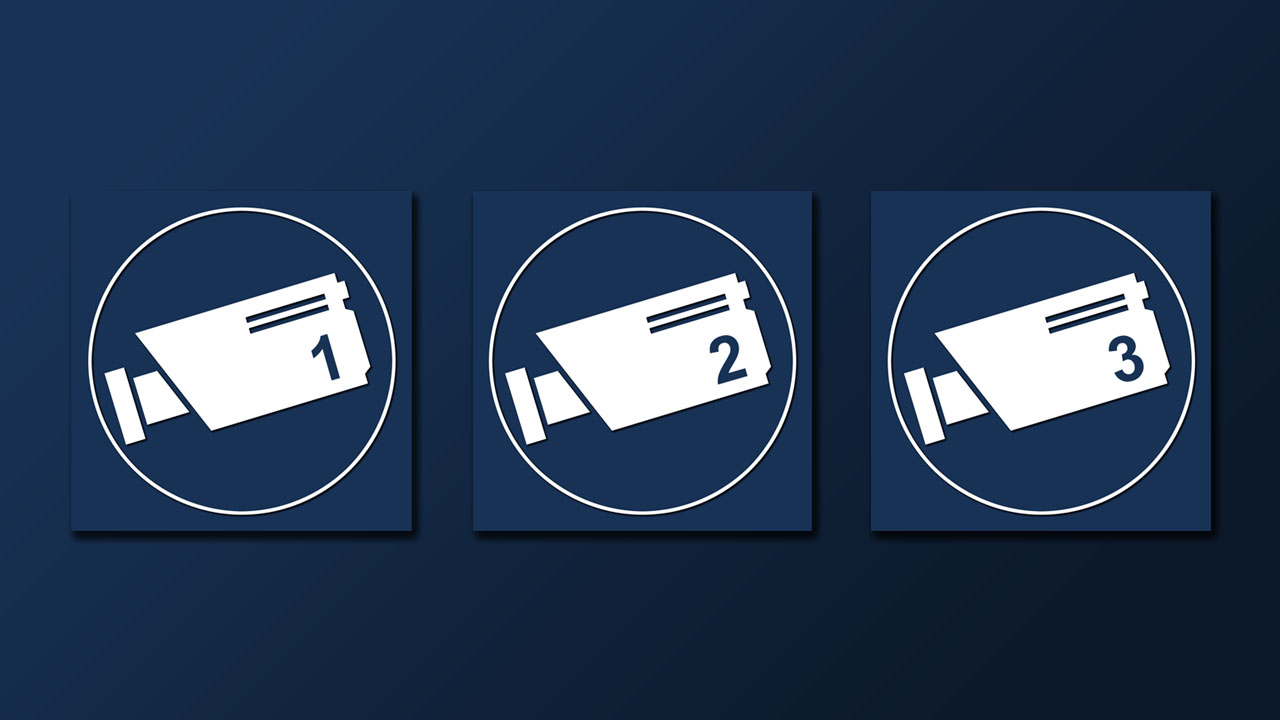
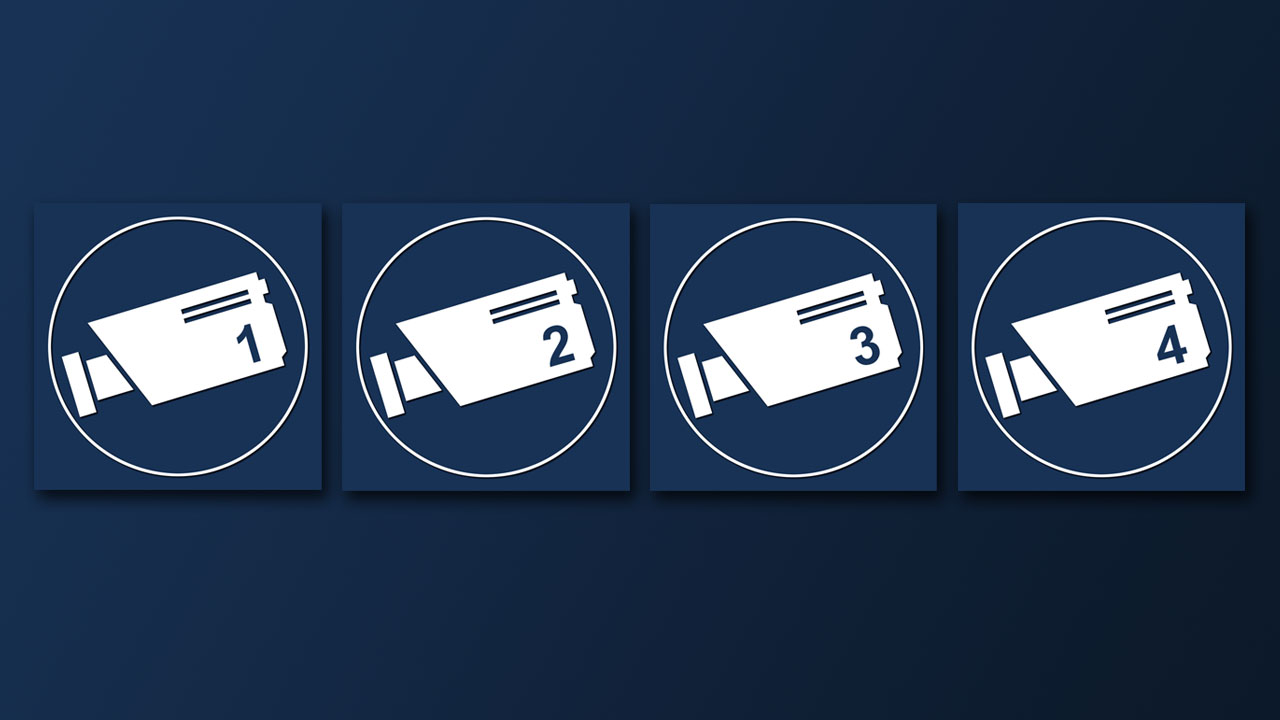
Initial Matrix built

Changed region(s): [[0.0312, 0.2444, 1.0, 0.7639], [0.7812, 0.3361, 0.8125, 0.3667]]

diff --git a/default.py b/default.py
@@ -1,31 +1,29 @@
 import sys
 import os
-import urllib
+from urllib.parse import parse_qsl, unquote_plus
 import xbmc
 import xbmcaddon
 import xbmcgui
 import xbmcplugin
+import xbmcvfs
 
 __addon__ = xbmcaddon.Addon()
 __addonID__ = __addon__.getAddonInfo('id')
 __addonname__ = __addon__.getAddonInfo('name')
 __path__ = __addon__.getAddonInfo('path')
+__iconpath__ = os.path.join(xbmcvfs.translatePath(__path__), 'resources', 'lib', 'media')
+__fanart__ = os.path.join(xbmcvfs.translatePath(__path__), 'fanart.jpg')
 
 __LS__ = __addon__.getLocalizedString
 
+
 def paramsToDict(parameters):
+    return dict(parse_qsl(parameters))
 
-    paramDict = {}
-    if parameters:
-        paramPairs = parameters.split("&")
-        for paramsPair in paramPairs:
-            paramSplits = paramsPair.split('=')
-            if (len(paramSplits)) == 2:
-                paramDict[paramSplits[0]] = paramSplits[1]
-    return paramDict
 
-def writeLog(message, level=xbmc.LOGNOTICE):
-    xbmc.log('[%s] %s' % (__addonID__, message.encode('utf-8', errors='ignore')), level)
+def writeLog(message, level=xbmc.LOGDEBUG):
+    xbmc.log('[%s] %s' % (__addonID__, message), level)
+
 
 arguments = sys.argv
 
@@ -36,25 +34,25 @@ if len(arguments) > 1:
         arguments[1] = arguments[1][1:]
 
     params = paramsToDict(arguments[1])
-    mode = urllib.unquote_plus(params.get('mode', ''))
 
-    item = [__LS__(30011) % ('1'), __LS__(30011) % ('2'), __LS__(30011) % ('3')]
-    cam  = [__addon__.getSetting('cam1'), __addon__.getSetting('cam2'), __addon__.getSetting('cam3')]
-    loc  = [__addon__.getSetting('loc1'), __addon__.getSetting('loc2'), __addon__.getSetting('loc3')]
+    item = [__LS__(30011) % '1', __LS__(30011) % '2', __LS__(30011) % '3', __LS__(30011) % '4']
+    cam = [__addon__.getSetting('cam1'), __addon__.getSetting('cam2'), __addon__.getSetting('cam3'),
+           __addon__.getSetting('cam4')]
+    loc = [__addon__.getSetting('loc1'), __addon__.getSetting('loc2'), __addon__.getSetting('loc3'),
+           __addon__.getSetting('loc4')]
 
 
-if mode is '':
-    _atleast = False
-    for i in range(int(__addon__.getSetting('numcams'))):
-        icon = xbmc.translatePath(os.path.join( __path__,'resources', 'lib', 'media', 'ipcam_%s.png' % (i + 1)))
-        _listitem = '%s - %s' %(item[i], loc[i]) if loc[i] != '' else item[i]
-        li = xbmcgui.ListItem(_listitem, iconImage =icon)
-        li.setProperty('isPlayable', 'true')
-        li.setInfo('video', {'tag': 'Documentary'})
+_atleast = False
+for i in range(int(__addon__.getSetting('numcams'))):
+    li = xbmcgui.ListItem(label=loc[i] if loc[i] != '' else item[i], label2=item[i])
+    icon = xbmc.translatePath(os.path.join( __iconpath__, 'ipcam_%s.png' % (i + 1)))
+    li.setArt({'icon': icon, 'fanart': __fanart__})
+    li.setProperty('isPlayable', 'true')
+    li.setInfo('video', {'tag': 'Documentary'})
 
-        if cam[i] != '':
-            xbmcplugin.addDirectoryItem(_addonHandle, cam[i], li)
-            _atleast = True
+    if cam[i] != '':
+        xbmcplugin.addDirectoryItem(_addonHandle, cam[i], li)
+        _atleast = True
 
 if _atleast:
     xbmcplugin.endOfDirectory(_addonHandle)

diff --git a/README.md b/README.md
@@ -1,5 +1,5 @@
 <h1>Surveillance Cameras</h1>
 
-This addon shows the streams of maximum three surveillance cameras. For this, the URLs of the cams must be entered in the setup. If no stream URLs are entered, a corresponding notification message is issued. 
+This addon shows the streams of maximum four surveillance cameras. For this, the URLs of the cams must be entered in the setup. If no stream URLs are entered, a corresponding notification message is issued. 
 
-Dieses Addon zeigt die Streams von maximal 3 Überwachungskameras. Dazu müssen die entsprechenden URLs der Cams im Setup eingetragen werden. Sind keine Stream-URLs eingetragen, erfolgt eine entsprechende Hinweismeldung.
+Dieses Addon zeigt die Streams von maximal 4 Überwachungskameras. Dazu müssen die entsprechenden URLs der Cams im Setup eingetragen werden. Sind keine Stream-URLs eingetragen, erfolgt eine entsprechende Hinweismeldung.
